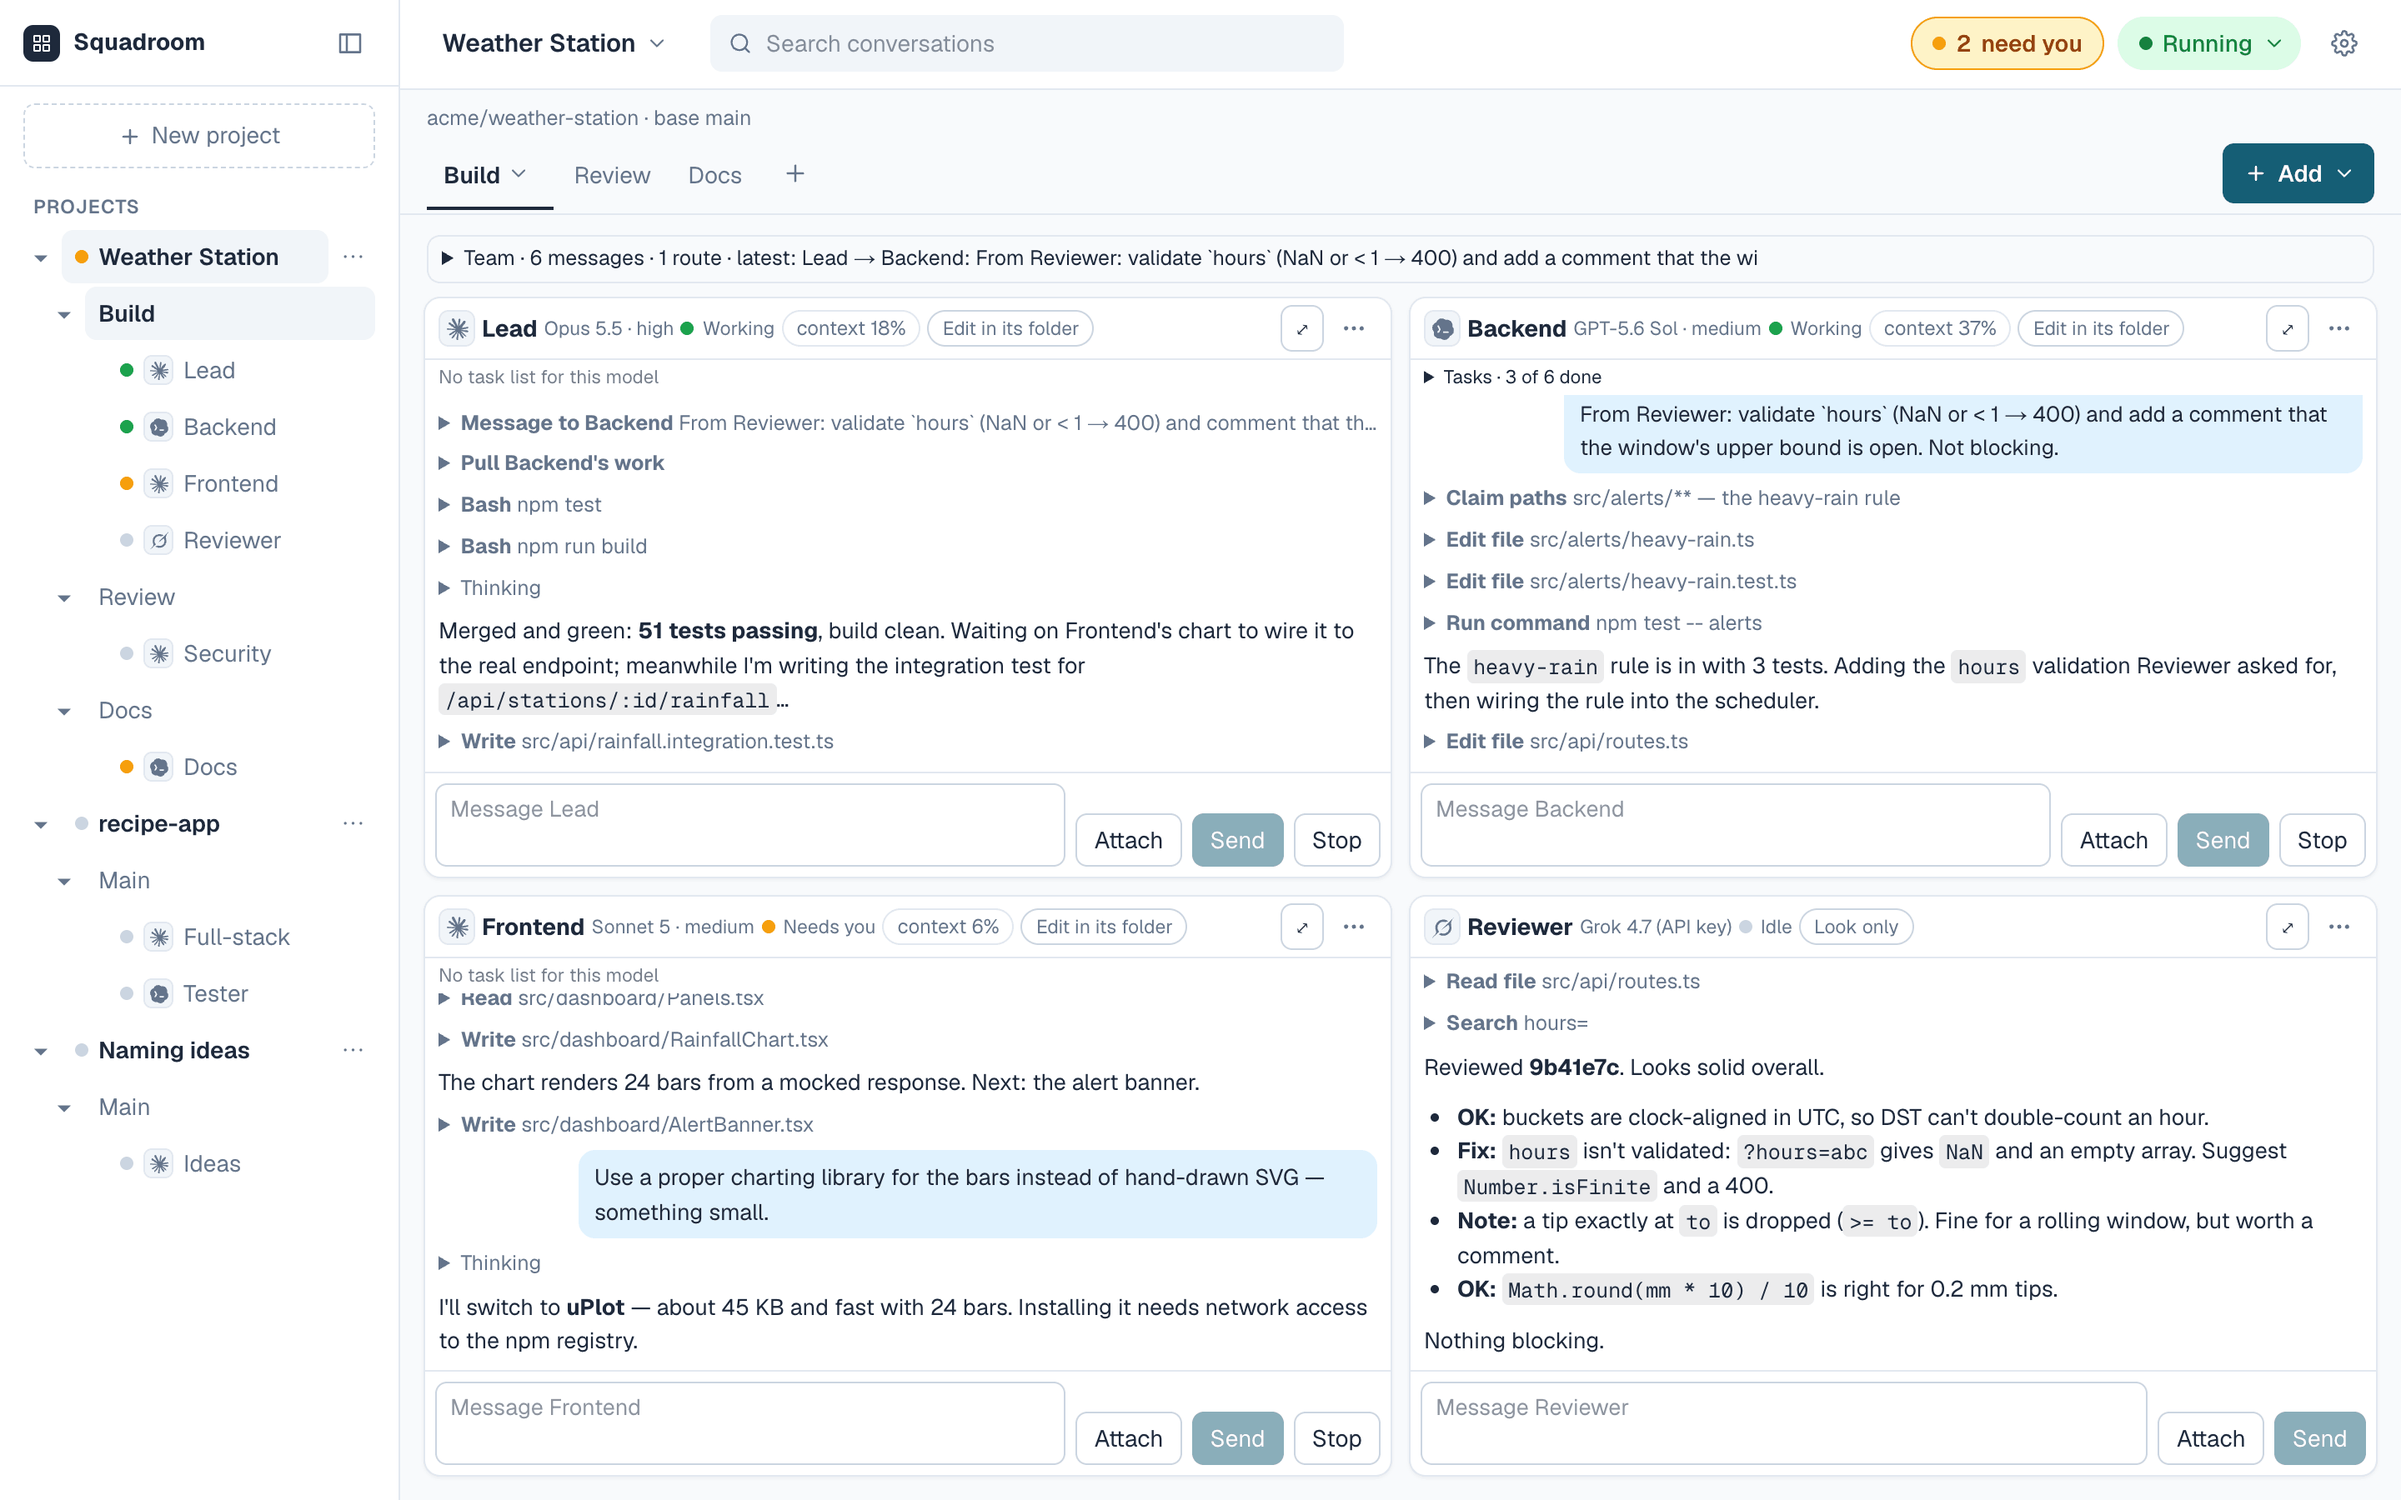
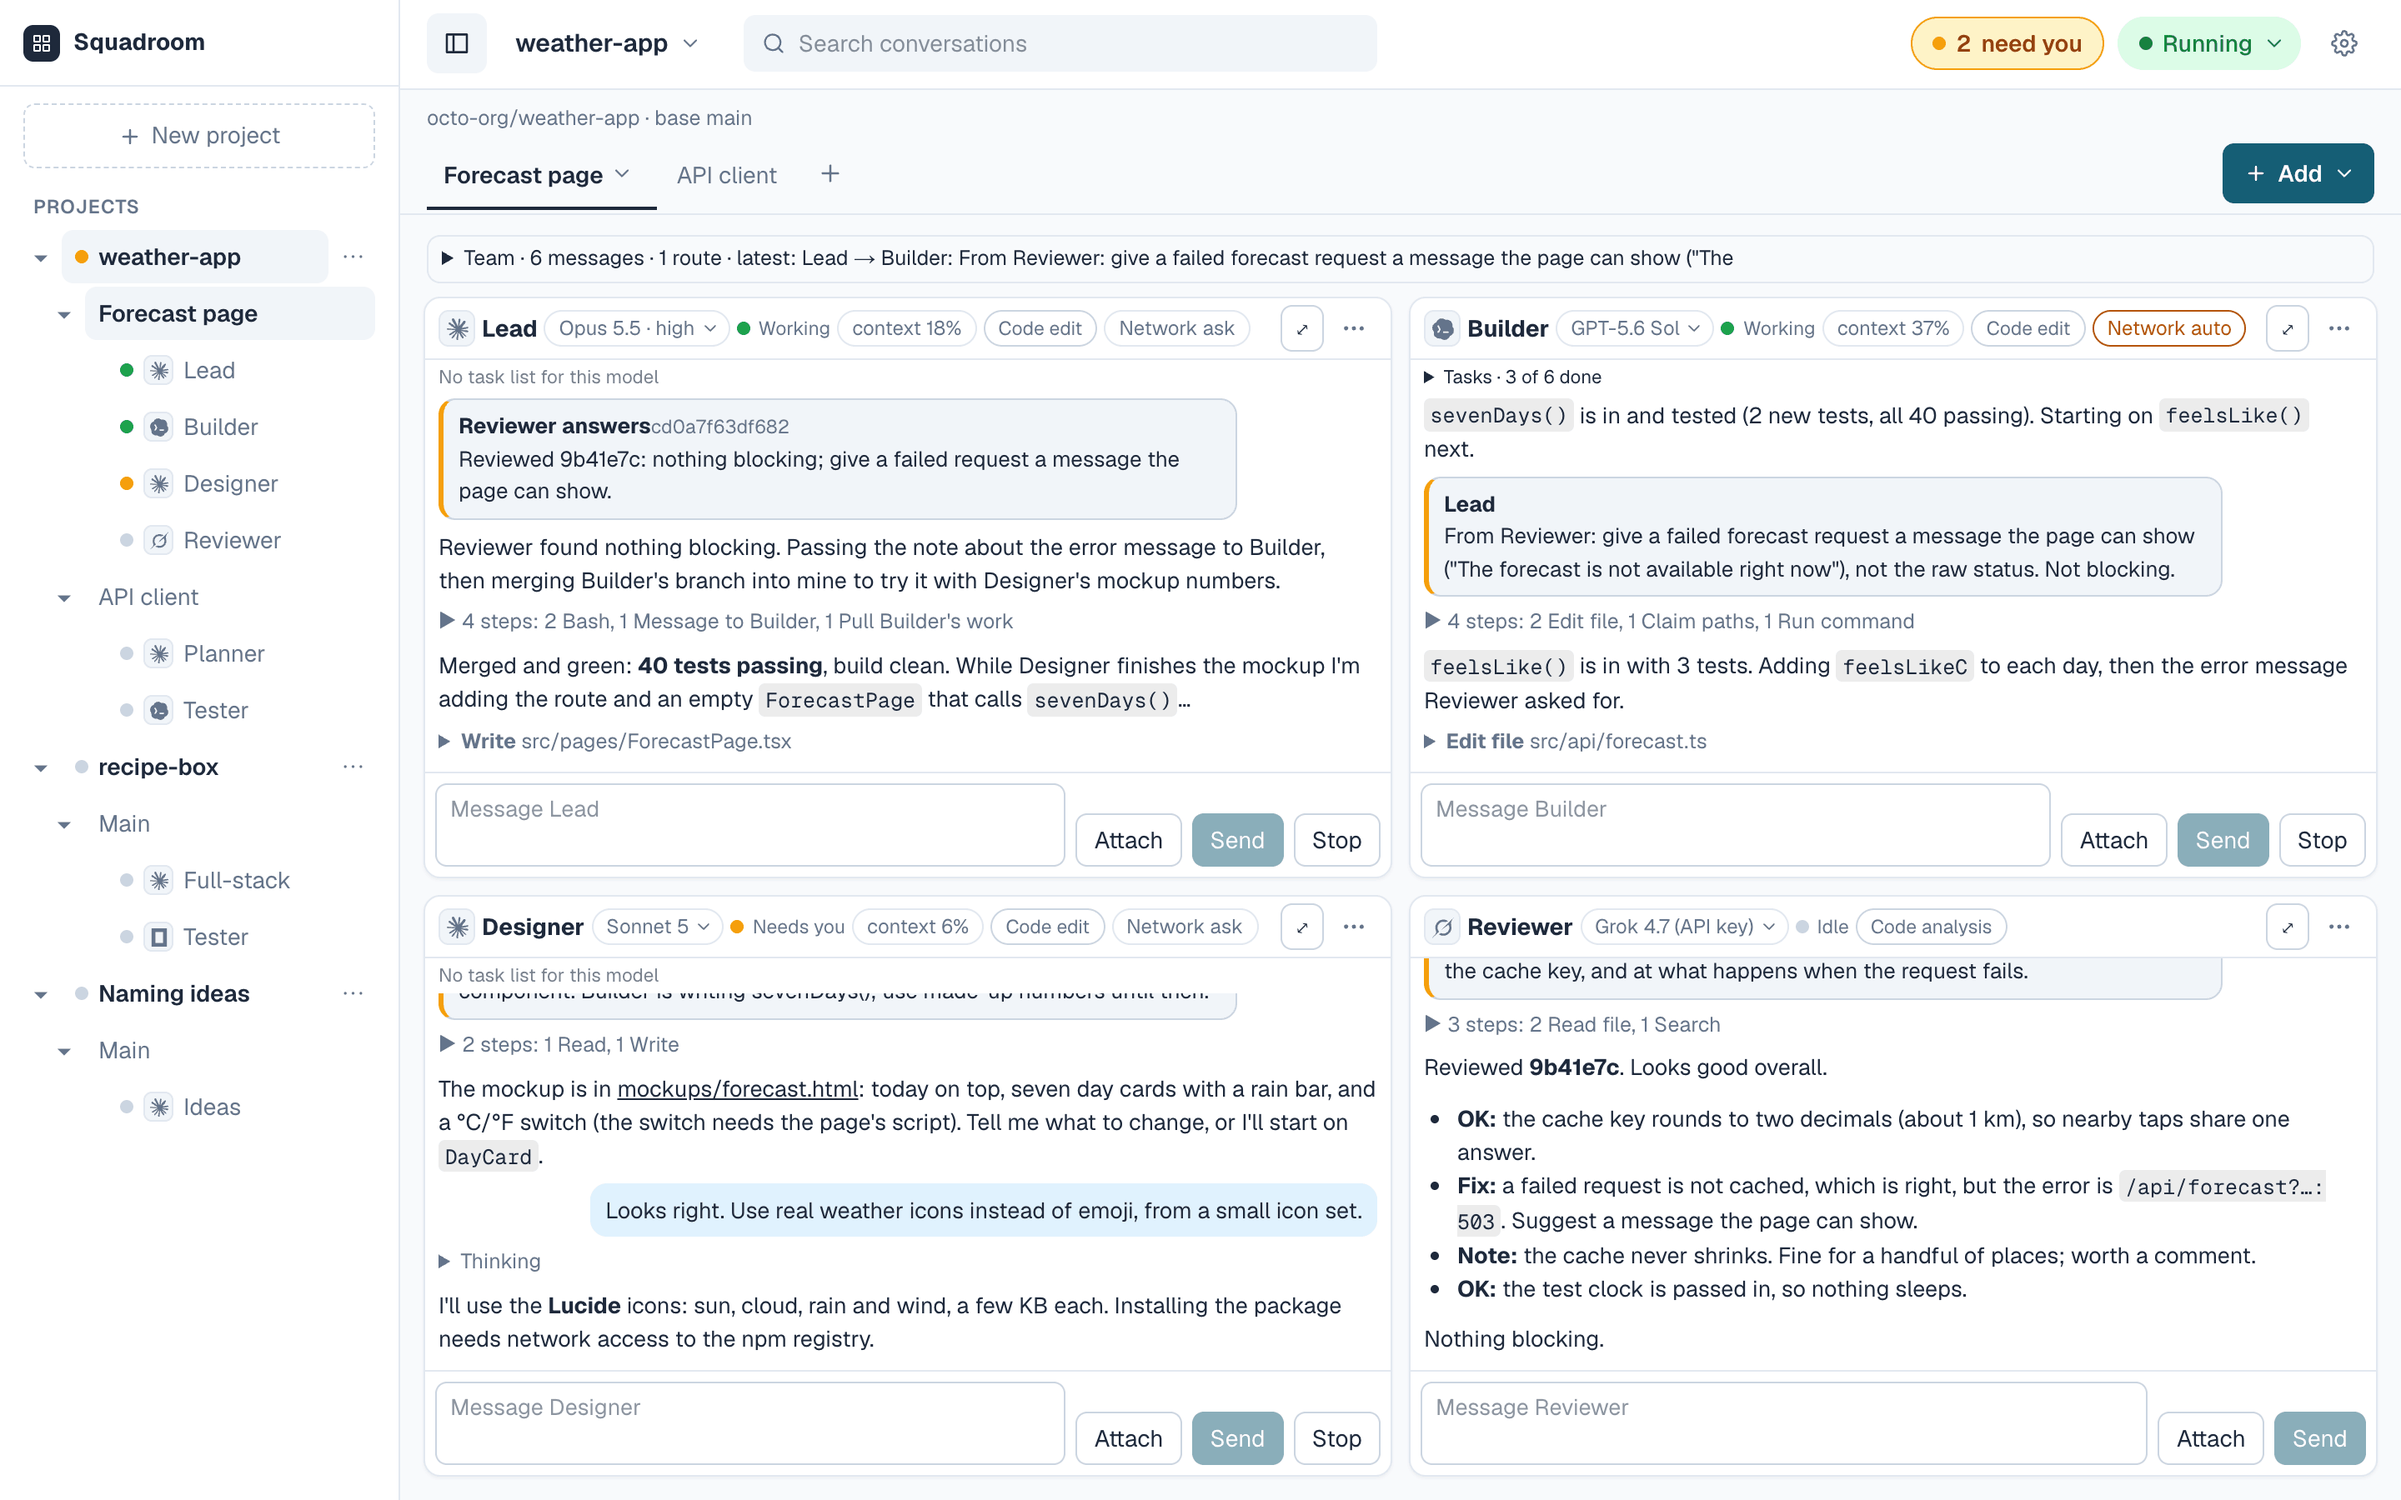
New screenshots (#9)
Replaces the four pictures with ones taken from a local demo with
made-up data (project weather-app) and adds three: a tab's menu, a reply
with maths, a diagram and an image, and the file panel's HTML preview.

diff --git a/index.html b/index.html
@@ -205,7 +205,7 @@
             <picture>
               <source media="(prefers-color-scheme: dark)" srcset="assets/console-desktop-dark.png">
               <img src="assets/console-desktop-light.png" width="2880" height="1800" fetchpriority="high" decoding="async"
-                   alt="The Weather Station project open on its Build tab, with four agent windows side by side. Lead on Claude Code and Backend on Codex are working, Frontend on Claude Code is waiting for an answer, and Reviewer on Grok Build is idle after posting a review. The sidebar lists three projects; the top bar shows two items in Needs you.">
+                   alt="The weather-app project open on its Forecast page tab, with four agent windows side by side. Lead on Claude Code and Builder on Codex are working, Designer on Claude Code is waiting for an answer, and Reviewer on Grok Build is idle after posting a review. Each window's header shows its model and whether its Network is on ask or auto. The sidebar lists three projects; the top bar shows two items in Needs you.">
             </picture>
           </a>
           <figcaption>One tab with four agents on Claude Code, Codex and Grok Build. Sample data.</figcaption>
@@ -261,20 +261,20 @@
               <picture>
                 <source media="(prefers-color-scheme: dark)" srcset="assets/team-messages-dark.png">
                 <img src="assets/team-messages-light.png" width="2880" height="1800" loading="lazy" decoding="async"
-                     alt="The Team panel above the agent windows. Lead sends Frontend and Backend their parts, Backend reports a commit to Lead, Lead asks Reviewer for a review and Reviewer answers.">
+                     alt="The Team panel above the agent windows. Lead sends Designer its part, Builder reports a commit to Lead, Lead asks Reviewer for a review, Reviewer answers, and Lead passes the note on to Builder.">
               </picture>
             </a>
-            <figcaption>The Team panel on the Build tab.</figcaption>
+            <figcaption>The Team panel on the Forecast page tab.</figcaption>
           </figure>
           <figure class="shot phone">
             <a href="assets/phone-needs-you-light.png">
               <picture>
                 <source media="(prefers-color-scheme: dark)" srcset="assets/phone-needs-you-dark.png">
-                <img src="assets/phone-needs-you-light.png" width="1170" height="1460" loading="lazy" decoding="async"
-                     alt="The Needs you tray on a phone. Frontend requests network access to registry.npmjs.org, with Show, Deny, Always for this agent, Always for this project and Allow once buttons. Below it, the Docs agent asks a question, with an answer box.">
+                <img src="assets/phone-needs-you-light.png" width="1170" height="1700" loading="lazy" decoding="async"
+                     alt="The Needs you tray on a phone. Designer requests network access to registry.npmjs.org, with Show, Deny, Always for this agent, Always for this project, Allow, Network to Auto and Allow once buttons. Below it, a network request from Tester that got no answer, with Show, Dismiss, Ask again, the two Always buttons and Network to Auto.">
               </picture>
             </a>
-            <figcaption>Needs you on a phone.</figcaption>
+            <figcaption>Needs you on a phone, with one request that got no answer.</figcaption>
           </figure>
         </div>
 
@@ -314,7 +314,7 @@
               <picture>
                 <source media="(prefers-color-scheme: dark)" srcset="assets/changes-pr-dark.png">
                 <img src="assets/changes-pr-light.png" width="2880" height="1800" loading="lazy" decoding="async"
-                     alt="The Changes dialog for the Backend agent: its branch, a note that it was pushed and pull request 42 was opened, an Approve button, the files changed against main, and one reply's commit expanded to show its diff.">
+                     alt="The Changes dialog for the Builder agent: its branch, a note that it was pushed and pull request 42 was opened, an Approve button, the files changed against main, and one reply's commit expanded to show its diff.">
               </picture>
             </a>
             <figcaption>One agent's branch, its pull request and a commit for each reply.</figcaption>
@@ -446,6 +446,16 @@
             key.
           </p>
         </div>
+        <figure class="shot" style="margin-top: 40px">
+          <a href="assets/menus-light.png">
+            <picture>
+              <source media="(prefers-color-scheme: dark)" srcset="assets/menus-dark.png">
+              <img src="assets/menus-light.png" width="2880" height="1800" loading="lazy" decoding="async"
+                   alt="The menu of the Forecast page tab, open. Its rows are Rename, Pause tab, Spend limit with the amount spent so far, Turn limits showing 40 turns and 2 h, Network auto showing 1 of 3 with a switch, Run report, Save as template and Close tab.">
+            </picture>
+          </a>
+          <figcaption>A tab's menu, with its spend so far, its turn limits and the Network auto switch.</figcaption>
+        </figure>
       </div>
     </section>
 
@@ -522,6 +532,26 @@
             picture and can preview an HTML page an agent has written.
           </p>
         </div>
+        <figure class="shot" style="margin-top: 40px">
+          <a href="assets/html-preview-light.png">
+            <picture>
+              <source media="(prefers-color-scheme: dark)" srcset="assets/html-preview-dark.png">
+              <img src="assets/html-preview-light.png" width="2880" height="1800" loading="lazy" decoding="async"
+                   alt="The file panel beside the agent windows, previewing mockups/forecast.html, a weather page with today's temperature and seven day cards. Above it are the Files, Source and Run scripts buttons; below it, a note says scripts are off and nothing is loaded from the internet.">
+            </picture>
+          </a>
+          <figcaption>The file panel previewing an HTML mockup an agent wrote, with its scripts off.</figcaption>
+        </figure>
+        <figure class="shot" style="margin-top: 40px">
+          <a href="assets/rich-reply-light.png">
+            <picture>
+              <source media="(prefers-color-scheme: dark)" srcset="assets/rich-reply-dark.png">
+              <img src="assets/rich-reply-light.png" width="2880" height="1800" loading="lazy" decoding="async"
+                   alt="One agent window at full size. Its reply explains retry waits with two formulas drawn as maths, a flowchart from the forecast page through the cache to the service, and a bar chart of the wait before each retry.">
+            </picture>
+          </a>
+          <figcaption>A reply with maths, a diagram and a picture from the agent's own copy of the repo.</figcaption>
+        </figure>
       </div>
     </section>
 
